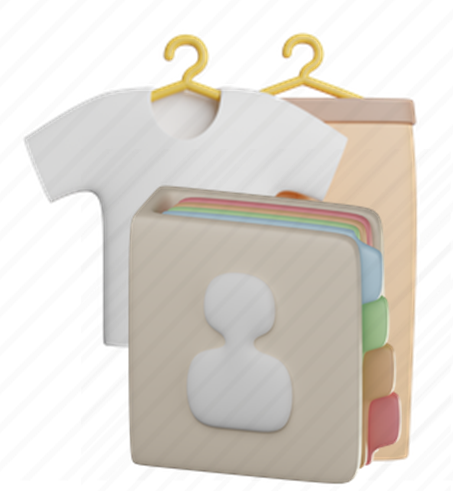
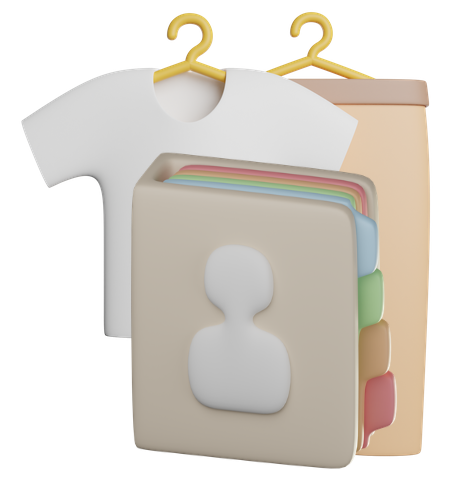
코디일지 이미지 수정/ 메인화면 아이콘수정

diff --git a/src/main/resources/templates/closetView/closetMain.html b/src/main/resources/templates/closetView/closetMain.html
@@ -540,7 +540,7 @@
                 <span style="display: inline-block">
                   <!-- 메뉴 앞 이미지 src 수정해주세요 -->
                   <img
-                    th:src="@{/images/ck8.png}"
+                    th:src="@{/images/closetImg/11154990.png}"
                     style="height: 4rem; width: 4rem; vertical-align: middle"
                   />
                   <!-- 메뉴이름 -->
